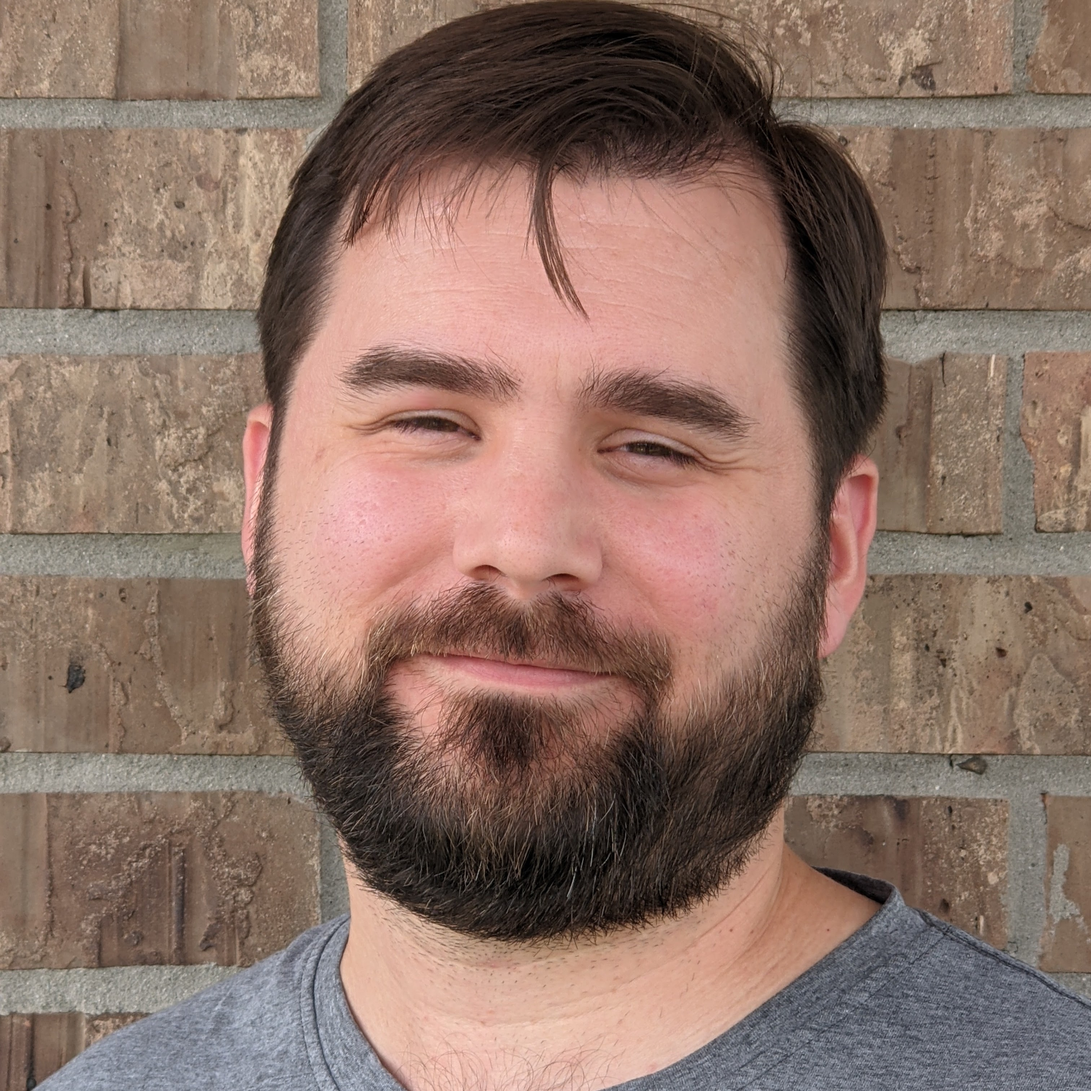
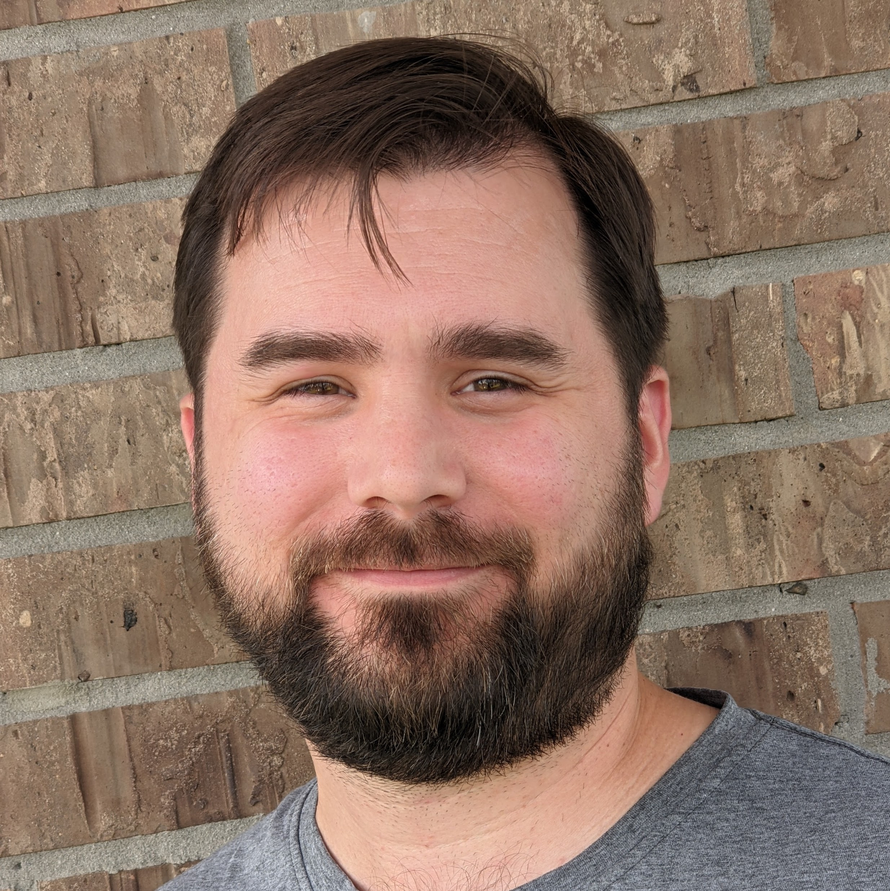
updated about page with resume, new bio, and new headshot

diff --git a/layouts/AuthorLayout.tsx b/layouts/AuthorLayout.tsx
@@ -10,7 +10,19 @@ interface Props {
 }
 
 export default function AuthorLayout({ children, content }: Props) {
-  const { name, avatar, occupation, company, email, twitter, linkedin, github } = content
+  const {
+    name,
+    avatar,
+    occupation,
+    company,
+    email,
+    twitter,
+    linkedin,
+    github,
+    skills1,
+    skills2,
+    skills3,
+  } = content
 
   return (
     <>
@@ -39,6 +51,42 @@ export default function AuthorLayout({ children, content }: Props) {
               <SocialIcon kind="linkedin" href={linkedin} />
               <SocialIcon kind="twitter" href={twitter} />
             </div>
+            {skills1 && (
+              <>
+                <h3 className="pt-8 pb-2 text-lg font-bold leading-8 tracking-tight text-primary-500">
+                  MASTERY OF
+                </h3>
+                {skills1.map((skill, idx) => (
+                  <div className="text-gray-500 dark:text-gray-400" key={idx}>
+                    {skill}
+                  </div>
+                ))}
+              </>
+            )}
+            {skills2 && (
+              <>
+                <h3 className="pt-8 pb-2 text-lg font-bold leading-8 tracking-tight text-primary-500">
+                  SKILLED WITH
+                </h3>
+                {skills2.map((skill, idx) => (
+                  <div className="text-gray-500 dark:text-gray-400" key={idx}>
+                    {skill}
+                  </div>
+                ))}
+              </>
+            )}
+            {skills3 && (
+              <>
+                <h3 className="pt-8 pb-2 text-lg font-bold leading-8 tracking-tight text-primary-500">
+                  EXPOSURE TO
+                </h3>
+                {skills3.map((skill, idx) => (
+                  <div className="text-gray-500 dark:text-gray-400" key={idx}>
+                    {skill}
+                  </div>
+                ))}
+              </>
+            )}
           </div>
           <div className="prose max-w-none pt-8 pb-8 dark:prose-dark xl:col-span-2">{children}</div>
         </div>

diff --git a/contentlayer.config.ts b/contentlayer.config.ts
@@ -62,6 +62,9 @@ export const Authors = defineDocumentType(() => ({
     linkedin: { type: 'string' },
     github: { type: 'string' },
     layout: { type: 'string' },
+    skills1: { type: 'list', of: { type: 'string' } },
+    skills2: { type: 'list', of: { type: 'string' } },
+    skills3: { type: 'list', of: { type: 'string' } },
   },
   computedFields,
 }))
